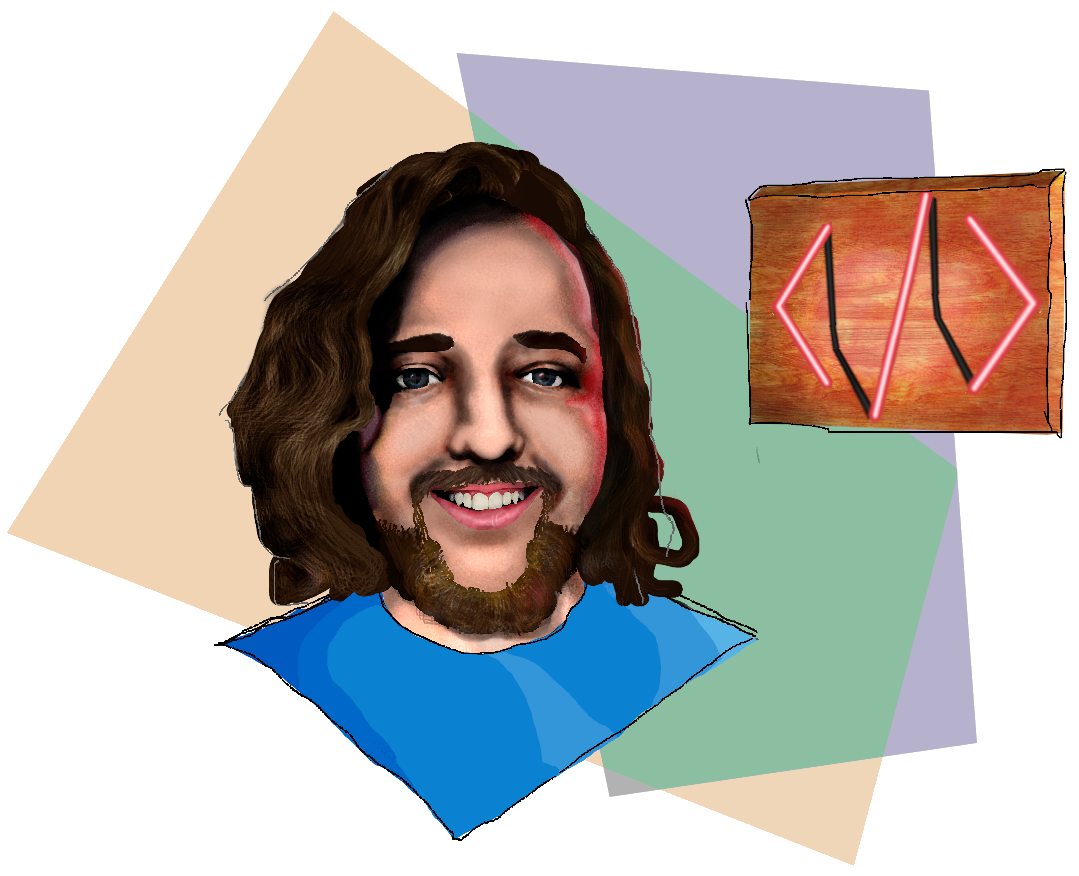
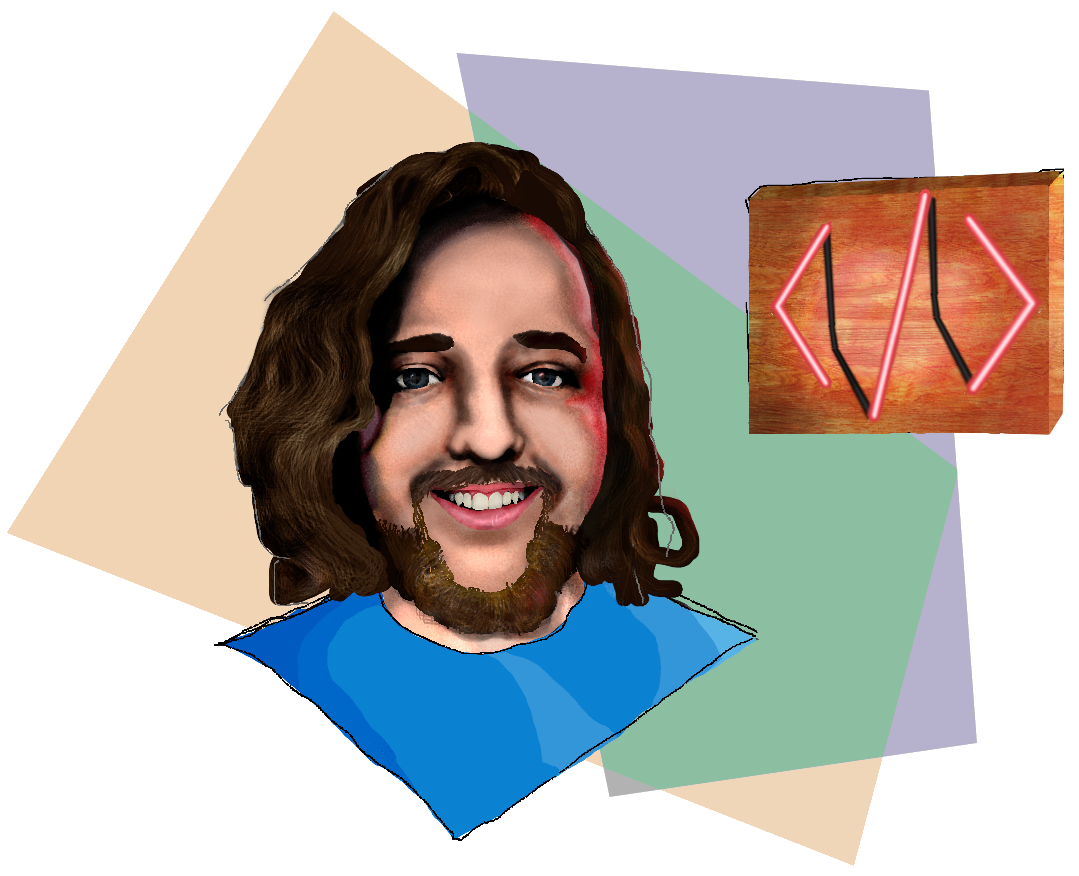
Added <div> birds in the background of the about section! You can click them. Minor art changes throughout the about section.

diff --git a/client/src/App.css b/client/src/App.css
@@ -71,6 +71,7 @@ body {
     -moz-user-select: none;
     -ms-user-select: none;
     user-select: none;
+    -webkit-user-drag: none;
 }
 
 .visible {
@@ -103,22 +104,6 @@ Didn't end up using this but it creates a speech bubble. May use later
     padding: 0px 0px 12% 0px;
 } */
 
-#mydiv {
-    position: absolute;
-    z-index: 9;
-    background-color: #f1f1f1;
-    border: 1px solid #d3d3d3;
-    text-align: center;
-  }
-  
-  #mydivheader {
-    padding: 10px;
-    cursor: move;
-    z-index: 10;
-    background-color: #2196F3;
-    color: #fff;
-  }
-
 /*
 Navbar
 */
@@ -134,6 +119,46 @@ Navbar
 .nav-link:hover {
     transform: scale(1.1);
 }
+
+.divBirdWing {
+    height: 50px;
+    width: 50px;
+    animation: wing 1s infinite alternate-reverse;
+    background: rgb(91,91,91);
+    background: -moz-linear-gradient(180deg, rgba(91,91,91,1) 0%, rgba(0,0,0,1) 100%);
+    background: -webkit-linear-gradient(180deg, rgba(91,91,91,1) 0%, rgba(0,0,0,1) 100%);
+    background: linear-gradient(180deg, rgba(91,91,91,1) 0%, rgba(0,0,0,1) 100%);
+    filter: progid:DXImageTransform.Microsoft.gradient(startColorstr="#5b5b5b",endColorstr="#000000",GradientType=1);
+    /* z-index: -1; */
+}
+
+.birdBody {
+    height: 50px;
+    width: 50px;
+    clip-path: polygon(17% 46%, 34% 41%, 55% 42%, 78% 43%, 86% 32%, 92% 28%, 96% 36%, 96% 43%, 98% 50%, 96% 57%, 96% 64%, 94% 70%, 78% 62%, 50% 67%, 34% 67%, 20% 64%, 8% 64%, 3% 66%, 4% 59%, 9% 52%);
+    background: rgb(29,29,29);
+    background: -moz-linear-gradient(90deg, rgba(29,29,29,1) 7%, rgba(0,0,0,1) 10%, rgba(0,0,0,1) 73%, rgba(37,37,37,1) 100%);
+    background: -webkit-linear-gradient(90deg, rgba(29,29,29,1) 7%, rgba(0,0,0,1) 10%, rgba(0,0,0,1) 73%, rgba(37,37,37,1) 100%);
+    background: linear-gradient(90deg, rgba(29,29,29,1) 7%, rgba(0,0,0,1) 10%, rgba(0,0,0,1) 73%, rgba(37,37,37,1) 100%);
+    filter: progid:DXImageTransform.Microsoft.gradient(startColorstr="#1d1d1d",endColorstr="#252525",GradientType=1);
+    position: absolute;
+    /* top: 100px; */
+    /* z-index: -1; */
+}
+
+.birdContainer {
+    z-index: -1;
+    position: absolute;
+    /* left: 0; */
+    /* transition-timing-function: cubic-bezier(1, 0.7, 1, 0.8); */
+    /* animation: fly 20s linear; */
+    opacity: 0;
+    
+}
+.birdClick {
+    cursor: crosshair;
+}
+
 
 /*                                        
 `7MMF'  `7MMF'                                     
@@ -226,7 +251,7 @@ P"Ybmmd"  .JMML. YA..JMML..JMML..JMML.    .JMML. YMbmd'   `Ybmd9'
     top: 120%;
     left: 0;
     right: 0;
-    background-color: white;
+    background-color: rgb(255, 255, 255);
     border: 2px solid black;
     padding: 5px 20px;
     font-size: 18px;
@@ -278,6 +303,7 @@ P"Ybmmd"  .JMML. YA..JMML..JMML..JMML.    .JMML. YMbmd'   `Ybmd9'
     animation: fadeIn 200ms linear;
     position: relative;
     margin: 0 auto;
+
 }
 
 #containTheFace {
@@ -286,7 +312,7 @@ P"Ybmmd"  .JMML. YA..JMML..JMML..JMML.    .JMML. YMbmd'   `Ybmd9'
     left: 50%;
     margin-left: -600px;
     animation: pulse infinite 8s;
-    animation-delay: 4s;
+    animation-delay: 1s;
     animation-direction: alternate-reverse;
     /* radial-gradient(circle, rgb(255, 0, 0) 1%, rgba(0, 128, 0, 0) 15%, rgba(0, 0, 255, 0) 60%); */
     background-position-x: -400px;
@@ -301,7 +327,10 @@ P"Ybmmd"  .JMML. YA..JMML..JMML..JMML.    .JMML. YMbmd'   `Ybmd9'
     height: 540px;
     left: calc(10% - 200px);
 }
-#aboutBody{ width: 100%;}
+#aboutBody{ 
+    width: 100%;
+    margin-top: 290px;
+}
 
 /*
                                                                       
@@ -358,7 +387,6 @@ Wb  YML.dML..d'    MM    MM    MM  YM.    , `Mb    MM    MM  8M   MM
         z-index: 1;
         height: 340px;
         left: 20%;
-        border: 2px solid black;
     }
     #aboutBody{
         margin-top: 340px;
@@ -366,6 +394,7 @@ Wb  YML.dML..d'    MM    MM    MM  YM.    , `Mb    MM    MM  8M   MM
     #containTheFace {
         background-image: none;
     }
+
 }
 
 @media only screen and (max-width: 499px) {
@@ -477,5 +506,37 @@ Wb  YML.dML..d'     MM `Mb. YM.    ,     VVV    L.   I8
     100% {
         background-image:
     radial-gradient(circle, rgba(255, 255, 255, 0) 1% 1%, rgba(0, 128, 0, 0) 15%, rgba(0, 0, 255, 0) 60%);
+    }
+}
+
+@keyframes bird {
+    0% {
+        clip-path: polygon(36% 25%, 60% 7%, 67% 10%, 70% 18%, 69% 25%, 67% 36%, 60% 45%, 69% 51%, 79% 55%, 90% 51%, 86% 68%, 56% 57%, 21% 55%, 0 46%, 11% 39%, 23% 38%);
+    }
+    100% {
+        clip-path: polygon(23% 38%, 37% 31%, 53% 28%, 81% 41%, 94% 39%, 94% 49%, 69% 52%, 66% 64%, 70% 82%, 63% 93%, 32% 67%, 33% 59%, 25% 54%, 14% 51%, 2% 46%, 13% 40%);
+    }
+}
+
+@keyframes wing {
+    0% {
+        clip-path: polygon(52% 13%, 65% 3%, 75% 16%, 79% 26%, 71% 53%, 62% 61%, 36% 61%, 40% 31%);
+    }
+    100% {
+        clip-path: polygon(45% 82%, 59% 100%, 76% 89%, 73% 75%, 71% 64%, 61% 53%, 41% 53%, 46% 61%);
+    }
+}
+
+@keyframes fly {
+    0% {
+        opacity: 1;
+        right: -50px;
+    }
+    99% {
+        opacity: 1;
+        right: 120%;
+    }
+    100% {
+        opacity: 0;
     }
 }

diff --git a/client/src/components/pages/About.js b/client/src/components/pages/About.js
@@ -10,35 +10,92 @@ import background from '../images/background.png';
 
 function About() {
 
-    React.useEffect(()=>{
+    React.useEffect(() => {
         var x = document.getElementsByTagName("BODY")[0];
         x.style.backgroundImage = `url('${background}')`;
         x.style.backgroundColor = 'black';
         x.style.backgroundPositionY = '56px';
         x.style.backgroundRepeat = 'no-repeat';
-        // background-position-x: -400px;
-        // background-position-y: -70px;
-        // background-repeat: no-repeat;
-    },[])
+
+        birdApplicator();
+
+        function birdApplicator() {
+            let topPosition = Math.floor((Math.random() * 400) + 100);
+            let scale = Math.random().toFixed(1);
+            if (scale < 0.5) {
+                scale = 1 - scale;
+            }
+            let speed = 12 / scale;
+            let newBirdSpeed = Math.floor((Math.random() * 4) + 1)*1000;
+            console.log(newBirdSpeed);
+            let birdOut = document.createElement('div');
+            birdOut.innerHTML =
+                `
+            <div value='false' class='birdClick' style="top: ${topPosition}px; animation: fly ${speed}s linear; transform: scale(${scale}); height: 50px; width: 50px; padding-left: 50px; z-index: 100; background-color: transparent; position: absolute"></div>
+            <div class='birdContainer' style="top: ${topPosition}px; animation: fly ${speed}s linear; transform: scale(${scale})">
+                <div class='birdBody'></div>
+                <div class='divBirdWing'></div>
+            </div>
+            `;
+            console.log('speed', speed, 'scale', scale, 'top', topPosition);
+            if (document.getElementById('birdUp')) {
+                document.getElementById('birdUp').appendChild(birdOut);
+                setTimeout(function () {
+                    birdApplicator();
+                    return;
+                }, newBirdSpeed);
+                setTimeout(function () {
+                        birdOut.remove();
+                }, speed*1000-100)
+            }
+            let birdClick = document.getElementsByClassName('birdClick');
+            if (birdClick) {
+                for (let x = 0; x < birdClick.length; x++) {
+                    if (document.getElementsByClassName('birdClick')[x].getAttribute('value') === 'false') {
+                        document.getElementsByClassName('birdClick')[x]
+                            .addEventListener("click", function (e) {
+                                e.target.style.display = 'none';
+                                e.target.nextElementSibling.style.transition = 'all 5s ease-out';
+                                e.target.nextElementSibling.style.transform = 'rotate(180deg) translateY(-100vh)';
+                                e.target.nextElementSibling.lastElementChild.style.animation = 'wing 75ms infinite alternate-reverse';
+                                setTimeout(function () {
+                                    if (e.target.nextSibling && e.target) {
+                                        e.target.nextSibling.remove();
+                                        e.target.remove();
+                                    }
+                                }, 5000);
+                            });
+                        document.getElementsByClassName('birdClick')[x].setAttribute('value', 'true');
+                    }
+                }
+            }
+            return;
+        }
+
+    }, []);
 
     return (
 
         <div>
             <div id='keyboardContainer'>
-                <img id='aboutKeyboard' src={keyboard} alt="Keyboard in sketchy style" />
+                <img id='aboutKeyboard' src={keyboard} alt="Keyboard in sketchy style"  className='cantTouchThis'/>
             </div>
-            <Container style={{ border: '5px solid black' }}>
+            <div id='birdUp'></div>
+            <Container style={{ border: '1px solid transparent' }}>
                 <div id='containTheFace'>
-                    <img id='face' src={face} />
+                    <img id='face' src={face}/>
                 </div>
                 <div id='aboutBody'>
                     <Row>
-                        <Col>
+                        <Col md={4}>
                         </Col>
                         <Col>
+                            <div style={{ border: '1px dotted black', borderRadius: '10px', backgroundColor: 'rgba(255, 255, 255, 0.90)', padding: '10px', }}>
+                                About Content
+                            </div>
                         </Col>
                     </Row>
-                    
+
                 </div>
             </Container>
         </div>
